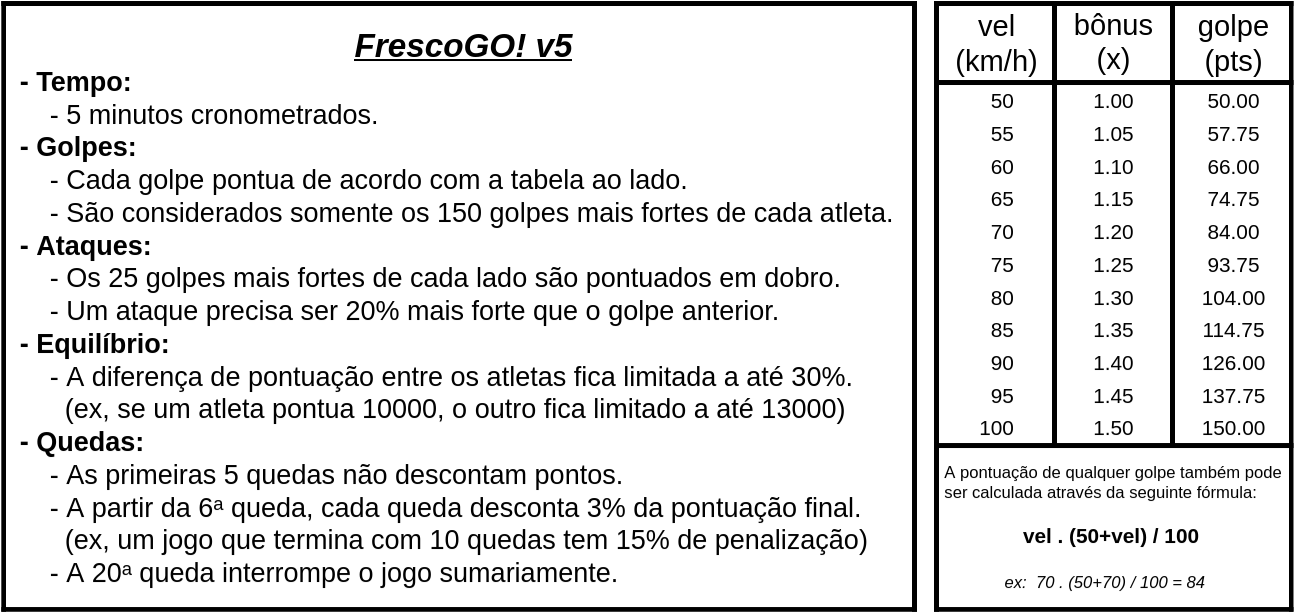
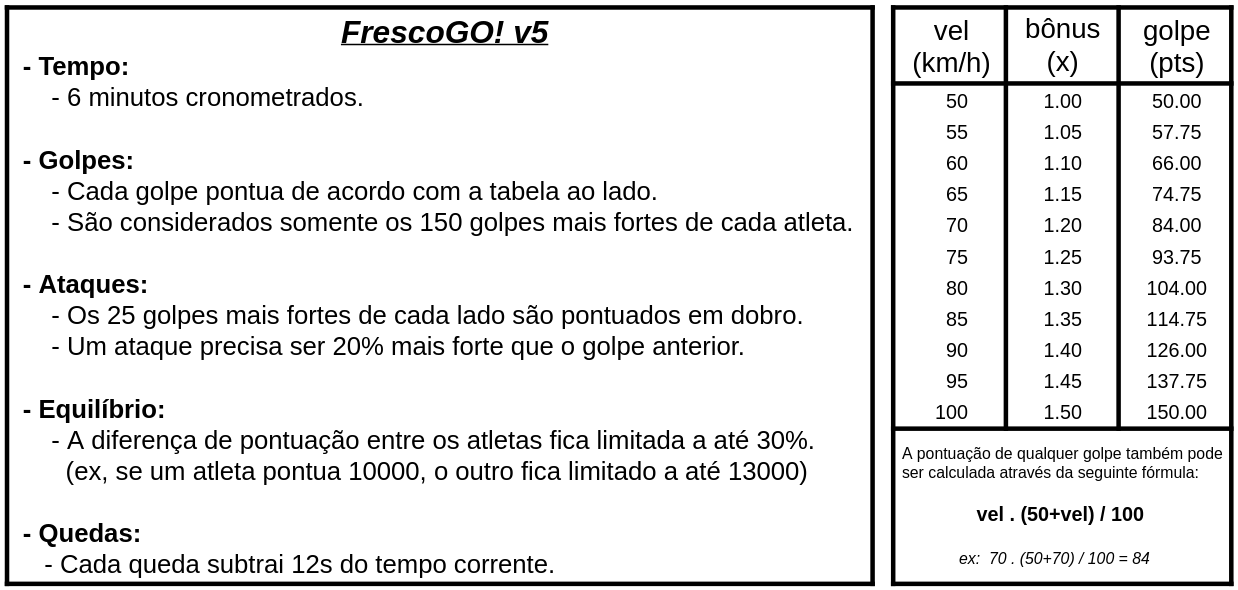
- regra 5

Changed region(s): [[0.0, 0.0, 1.0, 1.0], [0.7674, 0.8542, 0.9515, 0.8847]]

diff --git a/README.md b/README.md
@@ -32,7 +32,7 @@ Links do projeto:
 </p>
 
 - **Tempo**:
-    - 5 minutos cronometrados.
+    - 6 minutos cronometrados.
 - **Golpes**:
     - Cada golpe pontua de acordo com a tabela ao lado.
     - São considerados somente os 150 golpes mais fortes de cada atleta.
@@ -47,10 +47,7 @@ Links do projeto:
     - A diferença de pontuação entre os atletas fica limitada a até 30%.
         - (ex, se um atleta pontua 10000, o outro fica limitado a até 13000)
 - **Quedas**:
-    - As primeiras 5 quedas não descontam pontos.
-    - A partir da 6ᵃ queda, cada queda desconta 3% da pontuação final.
-        - (ex, um jogo que termina com 10 quedas tem 15% de penalização)
-    - A 20ᵃ queda interrompe o jogo sumariamente.
+    - Cada queda subtrai 12s do tempo corrente.
 
 <!--
 - Cada atleta é avaliado em separado com uma pontuação:
